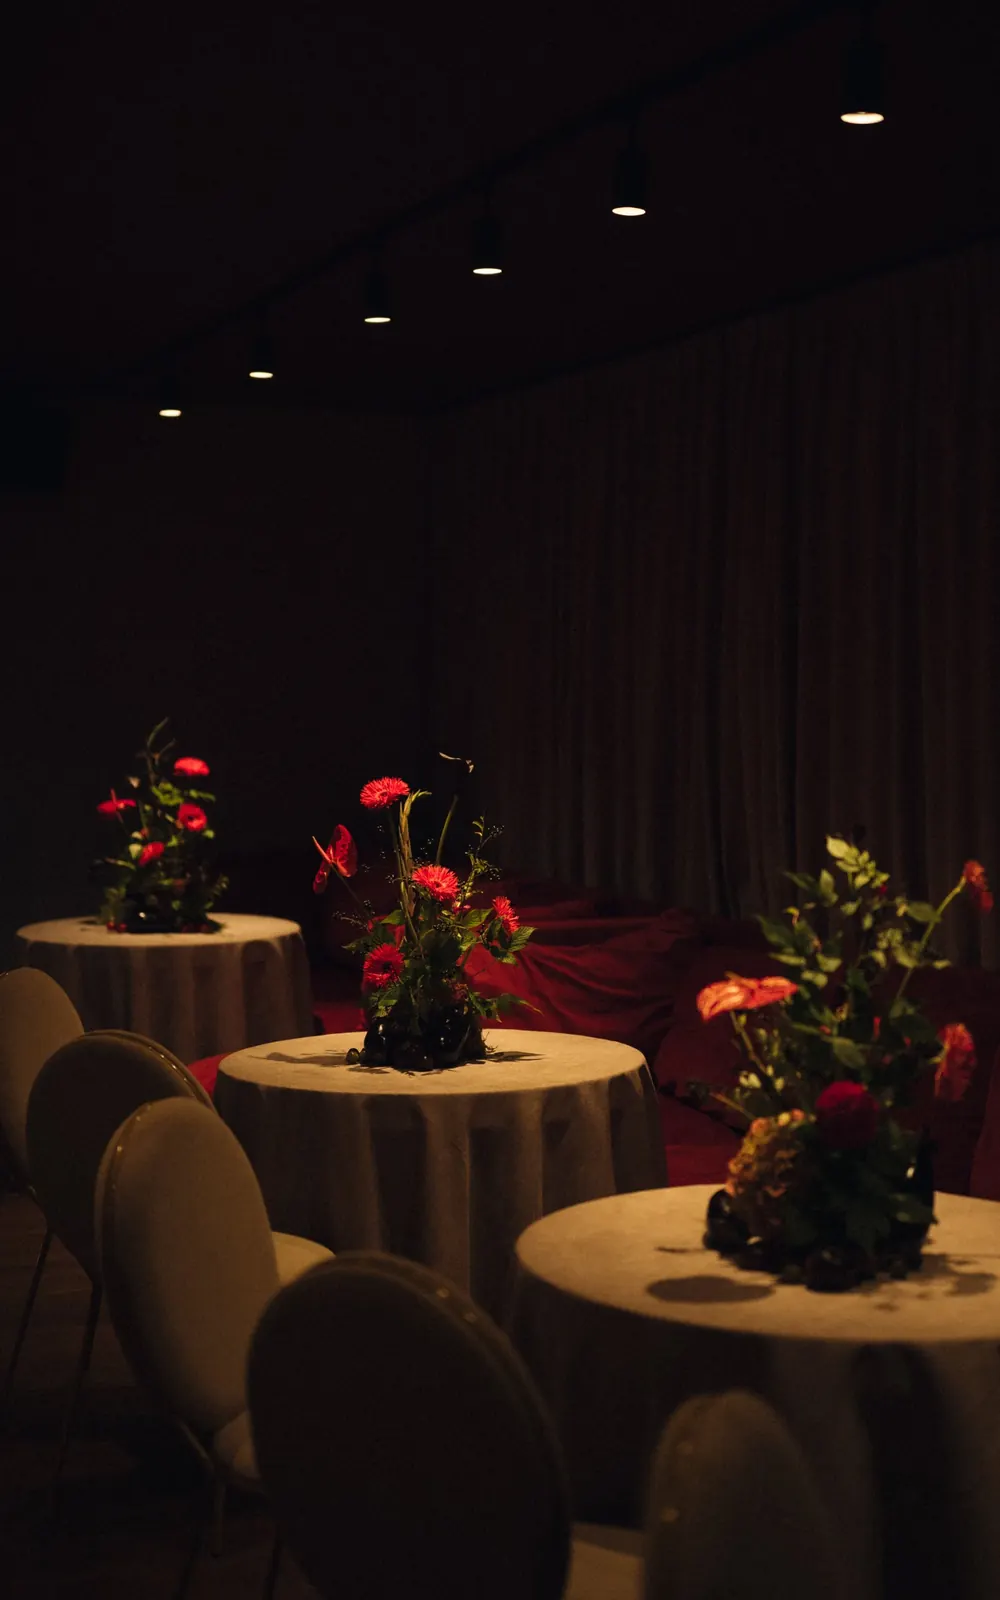
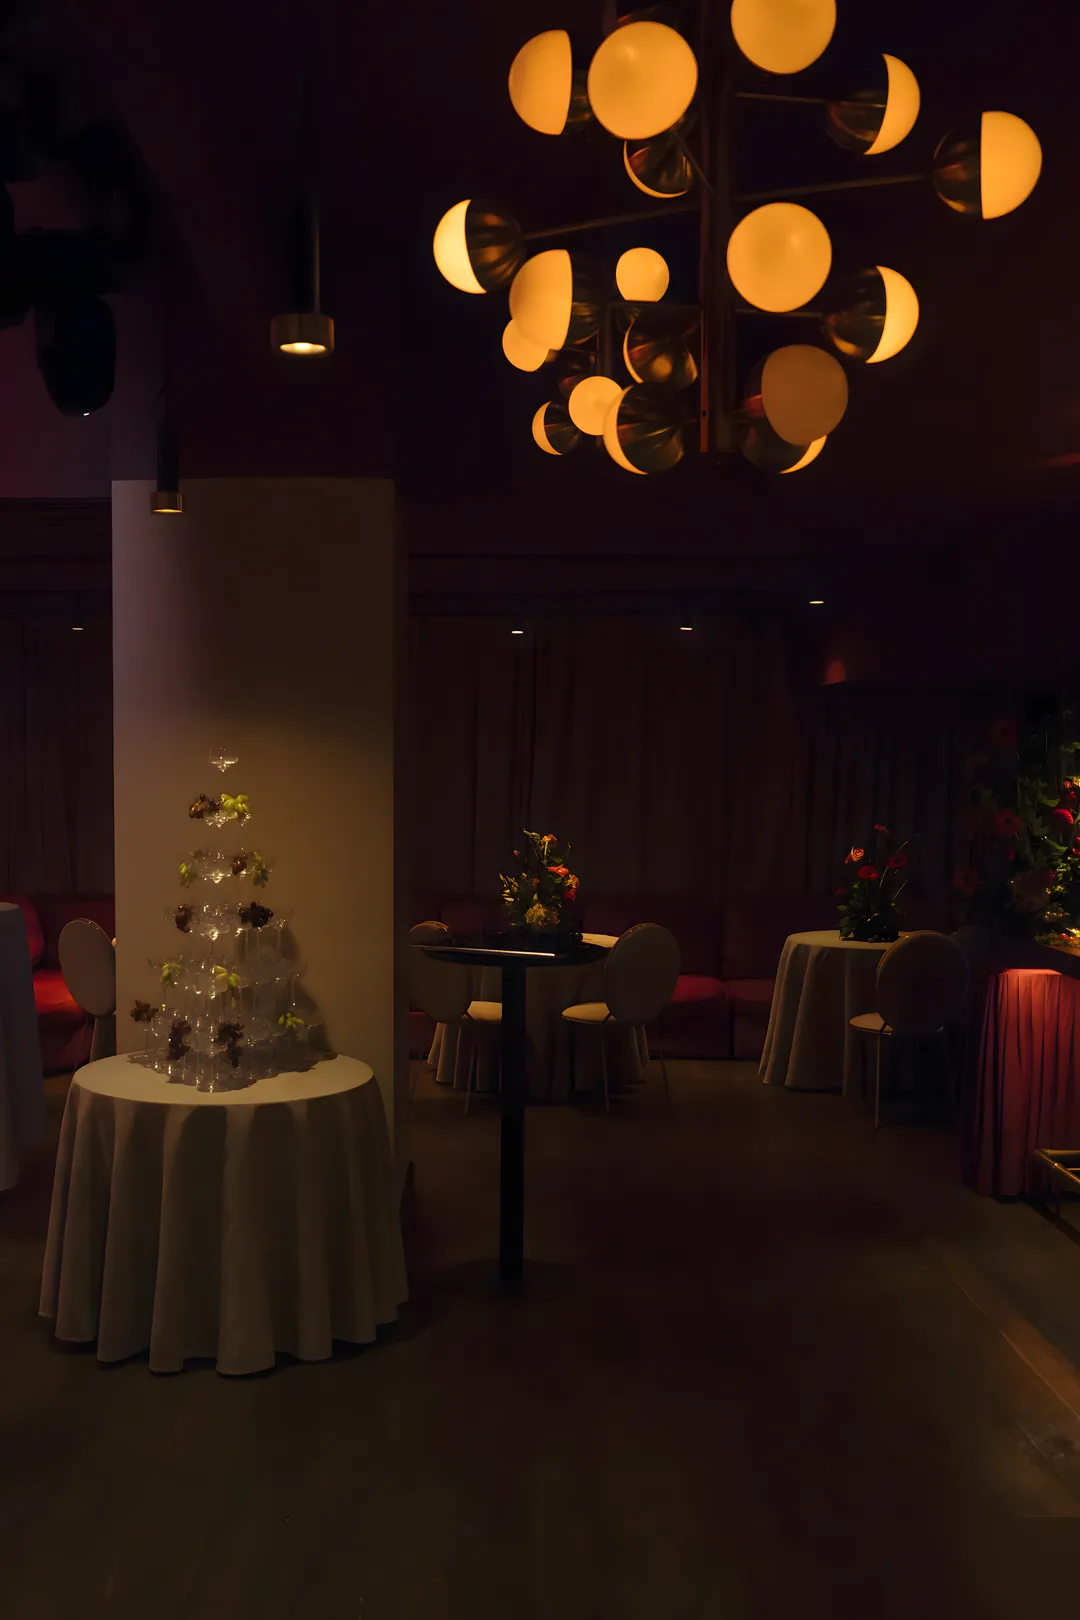
Новое фото главного экрана (апскейл), вернул открытие сайта: фото раскрывается из окна, затем логотип и кнопки
Claude-Session: https://claude.ai/code/session_016MB3hApfguHXfBQ2mkXkY6

diff --git a/index.html b/index.html
@@ -13,7 +13,7 @@
 <meta name="twitter:card" content="summary_large_image">
 <meta name="robots" content="noindex">
 <link rel="icon" href="logo.svg" type="image/svg+xml">
-<link rel="preload" as="image" href="hero-p.webp" media="(max-aspect-ratio:1/1)"><link rel="preload" as="image" href="hero-hq.webp" imagesrcset="hero-m.webp 1200w, hero-hq.webp 2400w" imagesizes="100vw" media="(min-aspect-ratio:1001/1000)">
+<link rel="preload" as="image" href="hero-p.webp" media="(max-aspect-ratio:1/1)"><link rel="preload" as="image" href="hero-hq.webp" imagesrcset="hero-m.webp 1280w, hero-hq.webp 2560w" imagesizes="100vw" media="(min-aspect-ratio:1001/1000)">
 <meta name="theme-color" content="#e8dccb">
 <link rel="preconnect" href="https://fonts.googleapis.com"><link rel="preconnect" href="https://fonts.gstatic.com" crossorigin><link href="https://fonts.googleapis.com/css2?family=Jost:wght@300;400;500;600;700&display=swap" rel="stylesheet">
 <script type="application/ld+json">{"@context":"https://schema.org","@type":"EventVenue","name":"Well Well Music Bistro","description":"Камерная площадка для банкетов, фуршетов и музыкальных вечеров до 100 гостей.","telephone":"+79684789556","maximumAttendeeCapacity":100,"address":{"@type":"PostalAddress","streetAddress":"Славянская площадь, 2","addressLocality":"Москва","addressCountry":"RU"}}</script>
@@ -47,6 +47,31 @@ h3{font-family:var(--sans);font-style:normal}
 .hall.is-link:hover img{transform:scale(1.03)!important}
 .pl__ph{display:none!important}
 .ap-on .halls__grid [data-rv] img,.halls__grid [data-rv] img{clip-path:none!important}
+/* === Открытие сайта: фото раскрывается из окна в центре, затем логотип и кнопки === */
+.hero.ho{position:relative;display:flex;align-items:center;justify-content:center;min-height:100svh;padding:0;text-align:center;overflow:hidden;isolation:isolate;background:var(--bg)}
+.ho__img{position:absolute;inset:0;z-index:-2;overflow:hidden}
+.ho__img img{width:100%;height:100%;object-fit:cover;object-position:56% 50%;display:block}
+.ho::before{content:"";position:absolute;inset:0;z-index:-1;background:radial-gradient(ellipse at 50% 50%,rgba(20,12,8,.42),rgba(20,12,8,.12) 70%)}
+.ho__in{display:flex;flex-direction:column;align-items:center;padding:96px var(--pad) 72px;color:#f1e6d6}
+.ho__logo{width:min(46vw,480px);height:auto}
+.ho__t{margin:clamp(22px,3vw,36px) 0 0;font:400 clamp(12px,1vw,14px)/1.5 var(--sans);letter-spacing:.24em;text-transform:uppercase;color:#f1e6d6;max-width:40ch}
+.ho__cta{display:flex;flex-wrap:wrap;justify-content:center;gap:12px;margin-top:clamp(26px,3vw,40px)}
+.ho .btn{color:#f1e6d6!important;border-color:rgba(241,230,214,.75)!important}
+.ho .btn:hover,.ho .btn:focus-visible{background:#f1e6d6!important;color:#2b1d16!important}
+@keyframes hoOpen{0%,20%{clip-path:inset(36% 30% 36% 30%)}100%{clip-path:inset(0)}}
+@keyframes hoZoom{0%,20%{transform:scale(1.14)}100%{transform:none}}
+@keyframes hoFade{from{opacity:0}to{opacity:1}}
+@keyframes hoLogo{from{opacity:0;transform:scale(1.1);filter:blur(14px)}to{opacity:1;transform:none;filter:blur(0)}}
+@keyframes hoUp{from{opacity:0;transform:translateY(14px)}to{opacity:1;transform:none}}
+.ho-wait .ho__img,.ho-wait .ho::before,.ho-wait .ho__in>*{opacity:0}
+.ho-go .ho__img{animation:hoOpen 2.3s cubic-bezier(.76,0,.24,1) both}
+.ho-go .ho__img img{animation:hoZoom 2.6s cubic-bezier(.76,0,.24,1) both}
+.ho-go .ho::before{animation:hoFade .9s 1.5s ease both}
+.ho-go .ho__logo{animation:hoLogo 1.6s 1.5s cubic-bezier(.16,1,.3,1) both}
+.ho-go .ho__t{animation:hoUp 1s 2.2s ease both}
+.ho-go .ho__cta{animation:hoUp 1s 2.4s ease both}
+@media (max-width:700px){.ho__logo{width:min(72vw,340px)}.ho__cta{flex-direction:column;width:100%;max-width:320px}.ho__cta .btn{width:100%}}
+@media (prefers-reduced-motion:reduce){.ho-go .ho__img,.ho-go .ho__img img,.ho-go .ho::before,.ho-go .ho__in>*{animation:none}}
 /* === Минимализм: весь сайт бежевый, без коричневого/чёрного фона и красных элементов === */
 :root{--bg:#e8dccb;--surface:#f1e9dd;--text:#2b1d16;--fgr:43,29,22;--bgr:232,220,203;--line:rgba(43,29,22,.22);--muted:rgba(43,29,22,.66);--red:#2b1d16;--focus:#2b1d16}
 html,body{background:#e8dccb;color:#2b1d16}
@@ -115,16 +140,16 @@ h2{font-size:clamp(1.5rem,2.6vw,2.3rem)!important;letter-spacing:.08em!important
 
 <main id="main">
 
-<section class="hero hx" id="top">
-  <img class="hx__logo" src="logo-dark.svg" alt="Well Well music bistro" width="140" height="53">
-  <div class="hx__txt">
-    <p class="hx__eb">Music bistro · Китай-город</p>
-    <h1>Камерная площадка<br>для событий<br>до 100 гостей</h1>
-    <p class="hx__sub">Банкеты, фуршеты и музыкальные вечера. Три зала, своя сцена и кухня «Рыбы Моей».</p>
-    <a class="btn" href="#book">Забронировать дату</a>
+<section class="hero ho" id="top">
+  <div class="ho__img"><picture><source media="(max-aspect-ratio:1/1)" srcset="hero-p.webp"><img src="hero-hq.webp" srcset="hero-m.webp 1280w, hero-hq.webp 2560w" sizes="100vw" alt="Зал Well Well перед фуршетом: столы в скатертях, горка бокалов, люстра из светящихся шаров и бар" width="2560" height="1707" fetchpriority="high"></picture></div>
+  <div class="ho__in">
+    <img class="ho__logo" src="logo.svg" alt="Well Well music bistro" width="400" height="155">
+    <h1 class="ho__t">Камерная площадка для событий до 100 гостей · Китай-город</h1>
+    <div class="ho__cta"><a class="btn" href="#book">Забронировать дату</a><a class="btn" href="#halls">Смотреть залы</a></div>
   </div>
-  <div class="hx__img"><picture><source media="(max-width:900px)" srcset="hero-m.webp"><img src="hero-hq.webp" alt="Зал Well Well перед фуршетом: столы в скатертях, горка бокалов и люстра из светящихся шаров" width="2400" height="1600" fetchpriority="high"></picture></div>
 </section>
+<script>(function(){var d=document.documentElement;d.classList.add('ho-wait');var im=document.querySelector('.ho__img img');var go=function(){if(d.classList.contains('ho-go'))return;d.classList.remove('ho-wait');d.classList.add('ho-go')};if(!im)return go();if(im.complete&&im.naturalWidth)return go();im.addEventListener('load',go);im.addEventListener('error',go);setTimeout(go,3000)})();</script>
+
 
 <section class="nums" id="formats" aria-label="Вместимость">
   <div class="wrap">
@@ -294,7 +319,7 @@ h2{font-size:clamp(1.5rem,2.6vw,2.3rem)!important;letter-spacing:.08em!important
   try{
   // Фишки шаблонов: слайдер первого экрана с миниатюрами, лента залов, бегущая строка, переключатель темы.
   // Всё собирается из текста и фото, которые уже есть на странице; в каком варианте что видно, решают стили.
-  var hbox=D.querySelector('.hero__img')||D.querySelector('.hx__img'),bgs=[];
+  var hbox=D.querySelector('.hero__img')||D.querySelector('.hx__img')||D.querySelector('.ho__img'),bgs=[];
   function addBg(src){var im=D.createElement('img');im.className='hs__bg';im.alt='';im.setAttribute('data-src',src);hbox.appendChild(im);bgs.push(im);return bgs.length-1}
   function showBg(i){bgs.forEach(function(im,k){if(k===i&&!im.getAttribute('src'))im.src=im.getAttribute('data-src');im.classList.toggle('on',k===i)})}
   function srcOf(k){var im=D.querySelector('main img[src*="'+k+'"]');return im?im.getAttribute('src'):''}
@@ -305,7 +330,7 @@ h2{font-size:clamp(1.5rem,2.6vw,2.3rem)!important;letter-spacing:.08em!important
     [].forEach.call(th.children,function(b,k){b.classList.toggle('on',k===i);b.setAttribute('aria-pressed',k===i)});
     clearTimeout(stimer);if(!calm)stimer=setTimeout(next,5200)}
   function next(){if(getComputedStyle(ui).display!=='none'&&window.pageYOffset<window.innerHeight*.8&&!D.hidden)slide((si+1)%SL.length);else stimer=setTimeout(next,1500)}
-  SL.forEach(function(s,i){var src=s[0]?srcOf(s[0]):(D.querySelector('.hero__img img')||D.querySelector('.hx__img img')).getAttribute('src');s[2]=s[0]?addBg(src):-1;
+  SL.forEach(function(s,i){var src=s[0]?srcOf(s[0]):(D.querySelector('.hero__img img')||D.querySelector('.hx__img img')||D.querySelector('.ho__img img')).getAttribute('src');s[2]=s[0]?addBg(src):-1;
     var b=D.createElement('button');b.type='button';b.setAttribute('aria-label',s[1]);b.innerHTML='<img alt="" loading="lazy" src="'+src+'"><i></i>';
     b.addEventListener('click',function(){slide(i)});th.appendChild(b)});
   slide(0);
